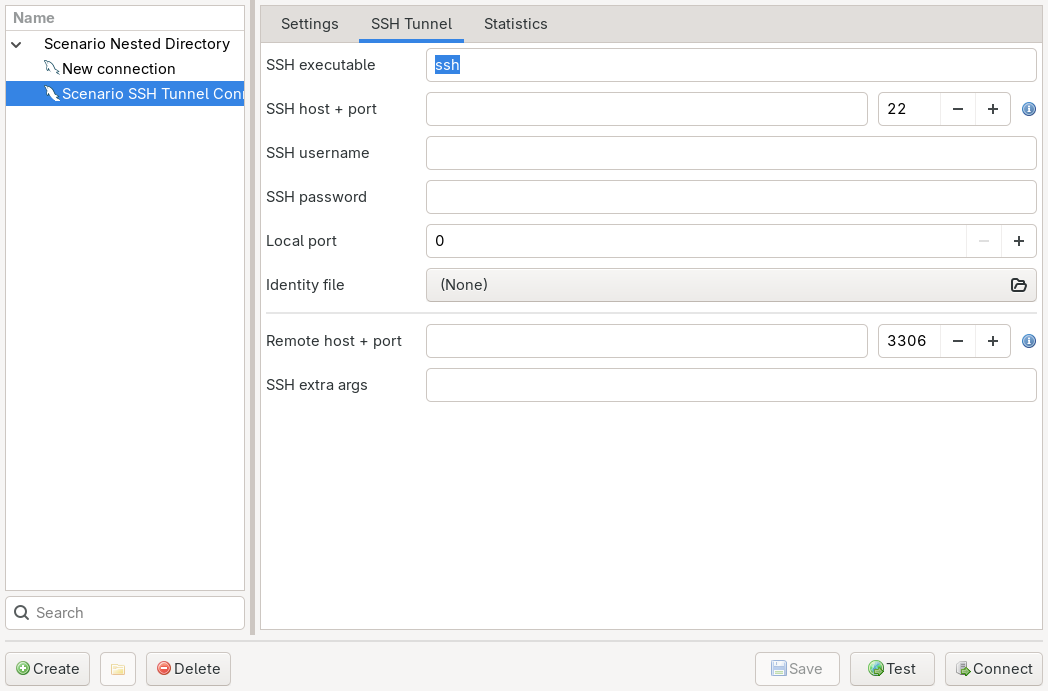
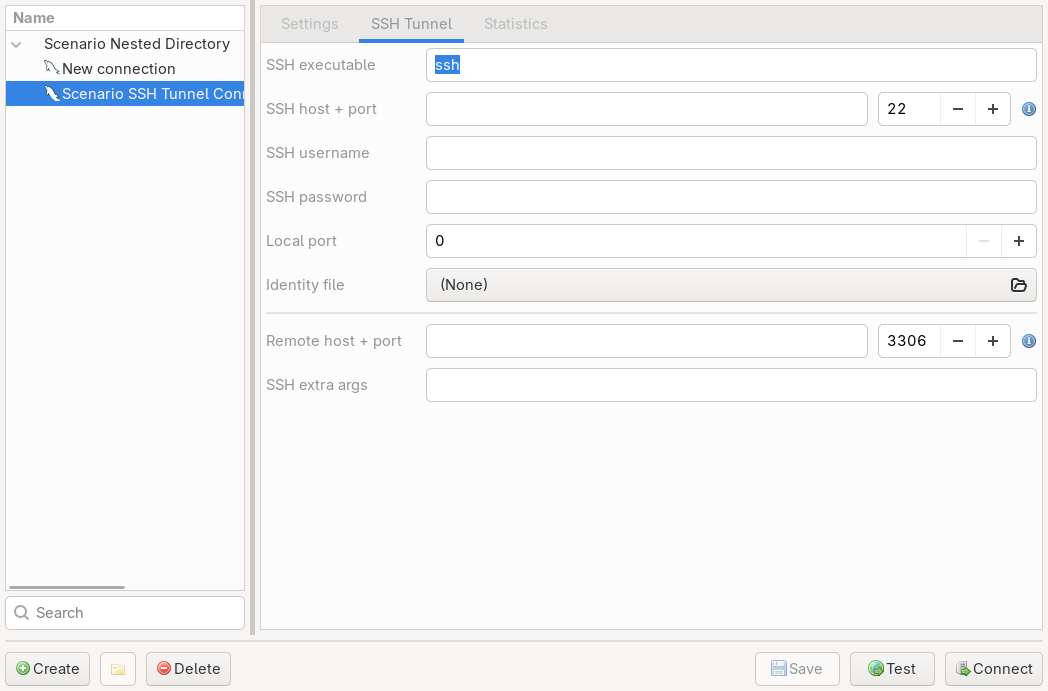
add splash screen shown during main-window startup
- PeterSQL.fbp: new SplashScreen frame (640×480, wxSTAY_ON_TOP|wxFRAME_NO_TASKBAR)
  with a large logo bitmap and a horizontal gauge, designed in wxFormBuilder.
- windows/views.py: generated SplashScreen wx.Frame view class.
- windows/splash.py: SplashController wraps the generated view; Show() centres
  the splash, start_close(on_done) runs a brief animated gauge fill on a timer
  then hides the splash and calls the on_done callback (e.g. main_frame.Show).
- main.py: open_main_frame() creates and shows the SplashController before
  constructing the heavy MainFrameController; the main frame is revealed via
  the on_done callback; error path destroys the splash if present.
- screenshot/: refresh connection-dialog and main-window screenshots.

diff --git a/windows/views.py b/windows/views.py
@@ -23,6 +23,36 @@ import gettext
 _ = gettext.gettext
 
 ###########################################################################
+## Class SplashScreen
+###########################################################################
+
+class SplashScreen ( wx.Frame ):
+
+    def __init__( self, parent ):
+        wx.Frame.__init__ ( self, parent, id = wx.ID_ANY, title = wx.EmptyString, pos = wx.DefaultPosition, size = wx.Size( 640,480 ), style = wx.FRAME_NO_TASKBAR|wx.STAY_ON_TOP|wx.TAB_TRAVERSAL )
+
+        self.SetSizeHints( wx.DefaultSize, wx.DefaultSize )
+
+        bSizer161 = wx.BoxSizer( wx.VERTICAL )
+
+        self.m_bitmap3 = wx.StaticBitmap( self, wx.ID_ANY, wx.Bitmap( u"petersql_large.png", wx.BITMAP_TYPE_ANY ), wx.DefaultPosition, wx.DefaultSize, 0 )
+        bSizer161.Add( self.m_bitmap3, 1, wx.ALL|wx.EXPAND, 5 )
+
+        self.m_gauge1 = wx.Gauge( self, wx.ID_ANY, 100, wx.DefaultPosition, wx.DefaultSize, wx.GA_HORIZONTAL )
+        self.m_gauge1.SetValue( 0 )
+        bSizer161.Add( self.m_gauge1, 0, wx.ALL|wx.EXPAND, 5 )
+
+
+        self.SetSizer( bSizer161 )
+        self.Layout()
+
+        self.Centre( wx.BOTH )
+
+    def __del__( self ):
+        pass
+
+
+###########################################################################
 ## Class ConnectionsDialog
 ###########################################################################
 

diff --git a/windows/splash.py b/windows/splash.py
@@ -1,0 +1,29 @@
+import wx
+
+from windows.views import SplashScreen
+
+_TICK_MS = 50
+
+
+class SplashController(SplashScreen):
+    _MIN_DURATION = 1.5
+
+    def __init__(self):
+        super().__init__(None)
+        self._timer = wx.Timer(self)
+        self._tick_count = 0
+        self._total_ticks = int(self._MIN_DURATION * 1000 / _TICK_MS)
+        self._on_done = None
+        self.Bind(wx.EVT_TIMER, self._on_tick)
+
+    def start_close(self, on_done) -> None:
+        self._on_done = on_done
+        self._timer.Start(_TICK_MS)
+
+    def _on_tick(self, event: wx.TimerEvent) -> None:
+        self._tick_count += 1
+        self.m_gauge1.SetValue(round(100 * self._tick_count / self._total_ticks))
+        if self._tick_count >= self._total_ticks:
+            self._timer.Stop()
+            self.Destroy()
+            self._on_done()

diff --git a/main.py b/main.py
@@ -51,7 +51,7 @@ class PeterSQL(wx.App):
         self.icon_registry_16 = IconRegistry(WORKDIR / "icons", 16)
 
         self._init_theme_loader()
-        
+
         self.theme_manager = ThemeManager(apply_function=apply_stc_theme)
         self.syntax_registry = SyntaxRegistry([JSON, SQL, XML, YAML, MARKDOWN, HTML, REGEX, CSV, BASE64, TEXT])
 
@@ -110,6 +110,11 @@ class PeterSQL(wx.App):
     def open_main_frame(self) -> None:
         try:
             from windows.main.controller import MainFrameController
+            from windows.splash import SplashController
+
+            splash = SplashController()
+            splash.Show()
+            splash.Update()
 
             self.main_frame = MainFrameController()
             size_values = self.settings.get_value("ui", "window", "size", default=[1920, 1080])
@@ -123,12 +128,14 @@ class PeterSQL(wx.App):
             self.main_frame.SetIcon(
                 wx.Icon(str(WORKDIR / "icons" / "petersql.ico"))
             )
-            self.main_frame.Show()
-
             self.main_frame.Bind(wx.EVT_SIZE, self._on_size)
             self.main_frame.Bind(wx.EVT_MOVE, self._on_move)
+
+            splash.start_close(on_done=self.main_frame.Show)
         except Exception as ex:
             logger.error(ex, exc_info=True)
+            if 'splash' in locals():
+                splash.Destroy()
 
     def _on_size(self, event: wx.SizeEvent) -> None:
         size = event.GetSize()